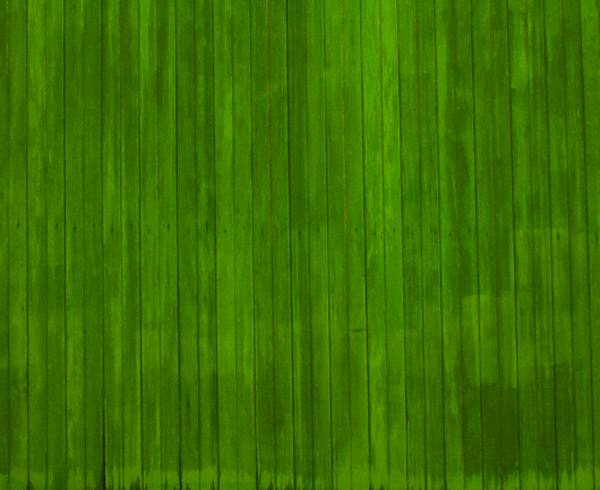
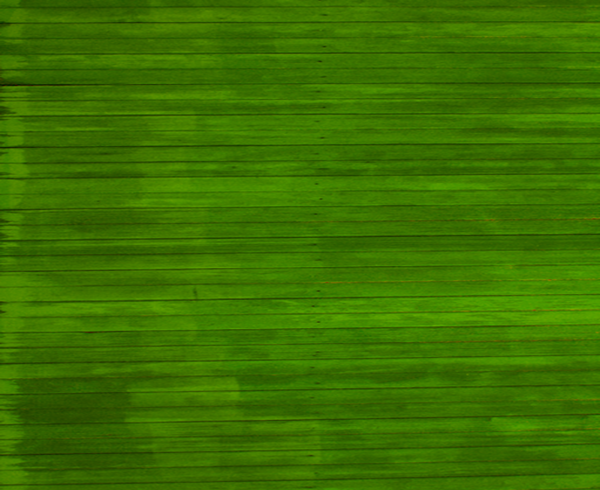
added images to bank and market

Changed region(s): [[0.0, 0.0, 1.0, 1.0]]

diff --git a/src/bank/gui/LayoutGui.java b/src/bank/gui/LayoutGui.java
@@ -3,7 +3,12 @@ package bank.gui;
 
 import java.awt.Color;
 import java.awt.Graphics2D;
+import java.awt.image.BufferedImage;
+import java.io.IOException;
 import java.util.concurrent.Semaphore;
+
+import javax.imageio.ImageIO;
+import javax.swing.ImageIcon;
 
 import agent.gui.Gui;
 
@@ -11,7 +16,8 @@ import agent.gui.Gui;
 public class LayoutGui implements Gui{
 
 	private boolean isPresent = true;
-
+	private final int WINDOWX = 600;
+	private final int WINDOWY = 490;
 
 	private int xPos, yPos;
 	private int xDestination, yDestination;
@@ -30,11 +36,22 @@ public class LayoutGui implements Gui{
 
 	boolean canRelease = false;
 
+	BufferedImage image;
+	ImageIcon icon;
+
 	public LayoutGui(){ //HostAgent m) {
 		xPos = deskXPos;
 		yPos = deskYPos;
 		xDestination = deskXPos;
 		yDestination = deskYPos;
+
+		try {
+			image = ImageIO.read(getClass().getResource("bank_floor.png"));
+		} catch (IOException e) {
+			e.printStackTrace();
+		}
+		icon = new ImageIcon(image);
+
 		//		c.msgGotToTeller();
 
 		//		DoGoToTeller(200);
@@ -66,6 +83,9 @@ public class LayoutGui implements Gui{
 	public void draw(Graphics2D g) {//abstract definition, needed for Graphics
 
 		Graphics2D g2 = (Graphics2D)g;
+
+		g2.fillRect(0, 0, WINDOWX, WINDOWY);
+		g2.drawImage(icon.getImage(), 0, 0, null);
 
 		Graphics2D tellerDesk = (Graphics2D)g;
 		tellerDesk.setColor(Color.YELLOW);

diff --git a/src/market/gui/MarketBackgroundLayoutGui.java b/src/market/gui/MarketBackgroundLayoutGui.java
@@ -2,6 +2,11 @@ package market.gui;
 
 import java.awt.Color;
 import java.awt.Graphics2D;
+import java.awt.image.BufferedImage;
+import java.io.IOException;
+
+import javax.imageio.ImageIO;
+import javax.swing.ImageIcon;
 
 import agent.gui.Gui;
 
@@ -15,6 +20,18 @@ public class MarketBackgroundLayoutGui implements Gui {
 	    private final int WINDOWX = 600;
 	    private final int WINDOWY = 490;
 	    
+	    BufferedImage image;
+	    ImageIcon icon;
+	    
+	    public MarketBackgroundLayoutGui(){
+	    	try {
+				image = ImageIO.read(getClass().getResource("market_floor.png"));
+			} catch (IOException e) {
+				e.printStackTrace();
+			}
+			icon = new ImageIcon(image);
+	    }
+	    
 		@Override
 		public void updatePosition() {
 			// TODO Auto-generated method stub
@@ -25,8 +42,10 @@ public class MarketBackgroundLayoutGui implements Gui {
 		public void draw(Graphics2D g) {
 			// TODO Auto-generated method stub
 			Graphics2D g2 = (Graphics2D)g;
-
+			
 	        //Clear the screen by painting a rectangle the size of the frame
+			g2.fillRect(0, 0, WINDOWX, WINDOWY);
+	        g2.drawImage(icon.getImage(), 0, 0, null);
 	        
 	        //Front Desk
 	        g2.setColor(Color.GREEN);
